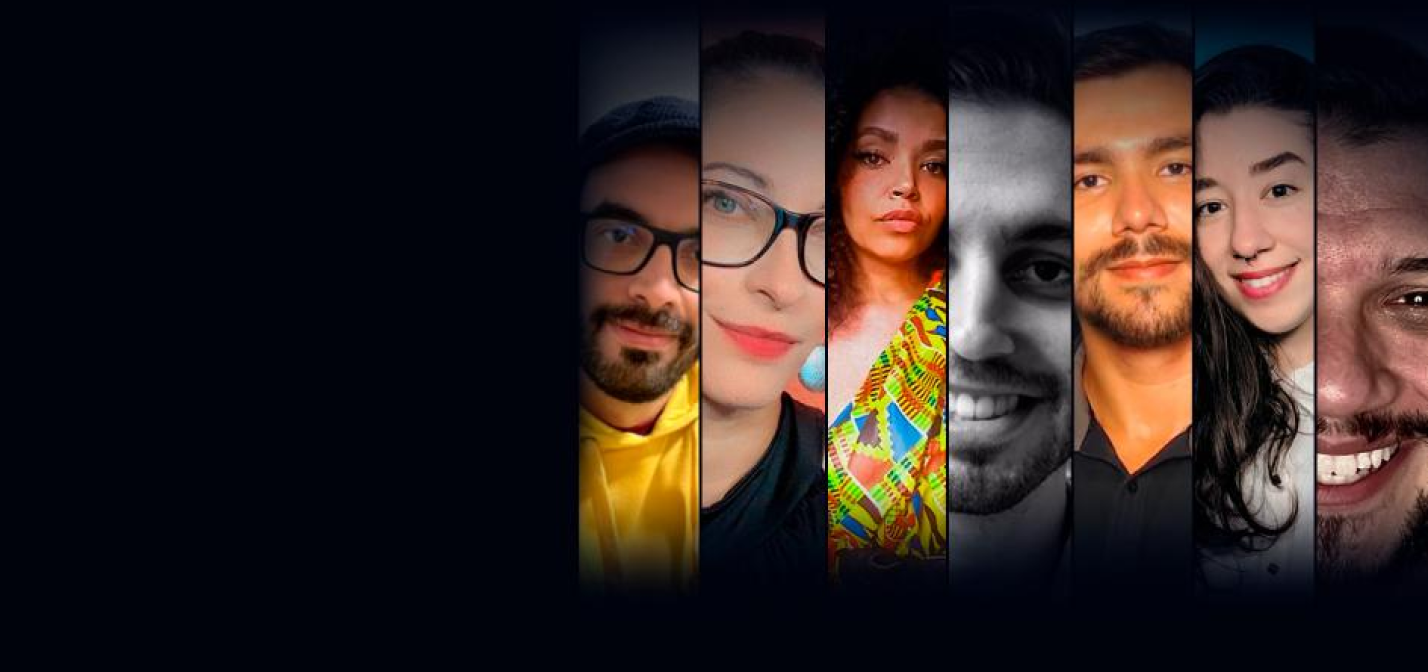
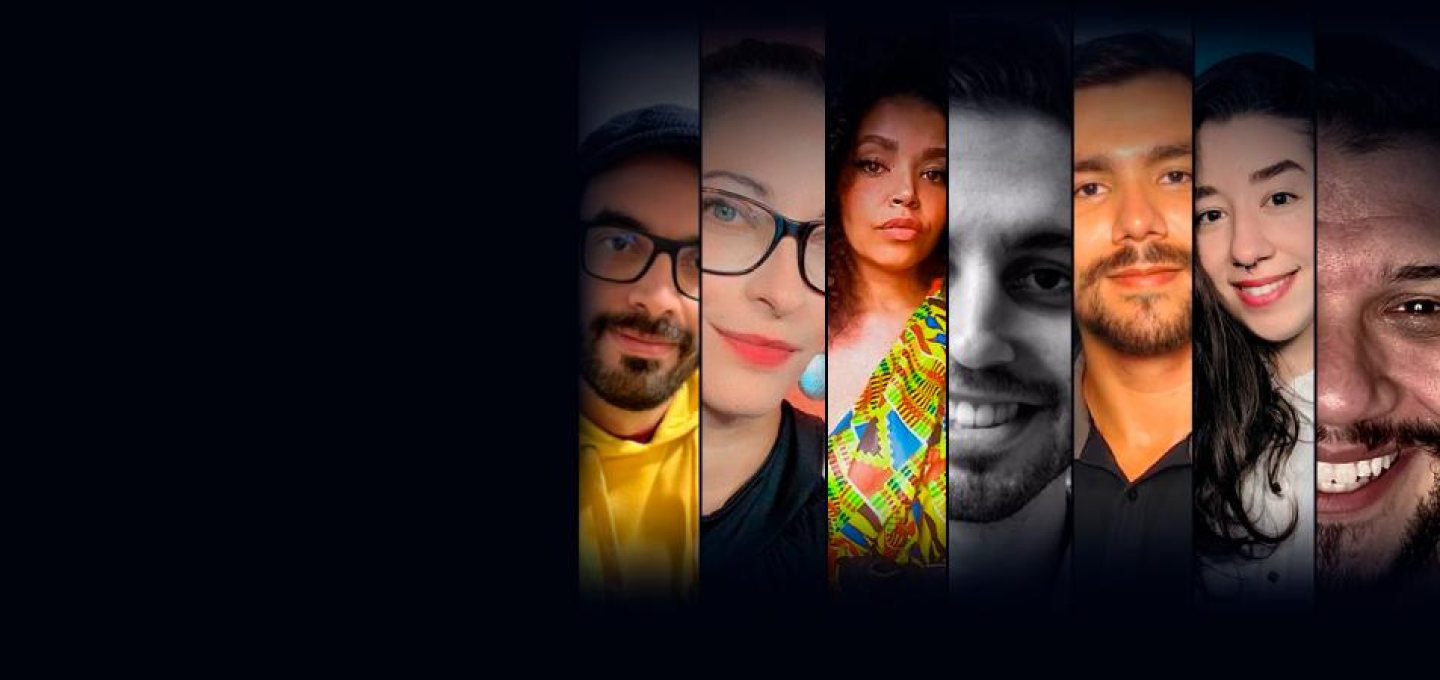
adição de novos arquivos

Changed region(s): [[0.4006, 0.0625, 1.0, 0.8438], [0.8936, 0.0625, 0.9244, 0.0938]]

diff --git a/index.html b/index.html
@@ -2,22 +2,100 @@
 <html>
 
 <head>
-    <title>Julia plus</title>
-    <meta charset="UF-8">
-    <meta name=" viewport" content= "widh=device-width, initial-scale=1">
+    <title>Julia Plus</title>
+    <meta charset="UTF-8">
+    <meta name="viewport" content="width=device-width, initial-scale=1">
     <link rel="stylesheet" href="styles.css">
+    <link rel="preconnect" href="https://fonts.googleapis.com">
+    <link rel="preconnect" href="https://fonts.gstatic.com" crossorigin>
+    <link href="https://fonts.googleapis.com/css2?family=Inter:wght@400;700&display=swap" rel="stylesheet">
 </head>
 
 
-
 <body>
-    <section class="conteiner principal">
-        <h1>Com o Combo+, você pode aproveitar a Alura+ e o Alura Língua por um preço único.</h1>
-        <img src="img/Group 28.png" alt="O combo+ é a junção do alura+ e o alura lingua">
-    </section>  
-</body>
+    <section class="principal container">
+        <div class="container__caixa">
+            <h1 class="container__titulo">Com o Combo+, você pode aproveitar a Alura+ e o Alura Língua por um preço
+                único.</h1>
+            <img src="img/Combo.png" alt="O combo+ é a junção do alura+ e o alura língua" class="container__imagem">
+            <a href="www.alura.com.br" class="container__botao">Assine por 12x de R$ 120,00*</a>
+            <a href="www.alura.com.br" class="container__botao botao_secundario">Assinar somente o Alura+</a>
+            <p class="container__aviso">*O preço pode variar caso a assinatura seja feita em outros planos.</p>
+        </div>
+    </section>
 
+    <section class="container secundario">
+        <img src="Img/Plataformas.png" alt="Um monitor e um celular com o alura plus aberto" class="secundario__imagem">
+        <div class="container__descricao">
+            <h2 class="descricao__titulo">Assista do seu jeito</h2>
+            <p class="descricao__texto">Aproveite a tela grande da TV ou assista no tablet, laptop, celular e outros aparelhos. Nossa seleção de cursos não para de crescer.</p>
+        </div>      
+    
+    </section>
 
+    <section class="container secundario">
+        <div class="container__descricao">
+            <p class="descricao__texto">Só o Combo+ oferece Alura+ e Alura Língua juntos para você ter acesso a cursos de diversas áreas da tecnologia e aprender inglês ou espanhol, onde e como quiser.</p>
+            <a href="www.alura.com.br"class="container__botao secundario__botao">Assinar o combo+</a>
+       </div>
+       <img src="Img/Telas.png" alt="tela da alura plus e do alura lingua" class="secundario__imagem">
 
+    </section>
+
+    <section class="container secundario">
+        <img src="Img/Notebook.png" alt="Um notebook com o alura aberto" class="secundaria__imagem">
+        <div class="container__descricao">
+            <h2 class="descricao__titulo">Baixe seus cursos</h2>
+            <p class="descricao__texto">Baixe e assista quando e onde quiser. Assim, seus favoritos estão sempre com você, até mesmo sem internet.</p>
+        </div>
+    </section>
+
+    <section class="dispositivos">
+        <h2 class="dispositivos__titulo">Disponível nos seus dispositivos favoritos</h2>
+        <ul class="dispositivos__listas">
+            <li>
+                <img src="Img/tv.png" alt="icone de televisão">
+                <h3 class="lista__item">TV</h3>
+            </li>
+            <li>
+                <img src="Img/computador.png" alt="icone de computador">
+                <h3 class="lista__item">Computadores</h3>
+            </li>
+            <li>
+                <img src="Img/celular.png">
+                <h3 class="lista__item">celular</h3>
+            </li>
+        </ul>
+
+    </section>
+
+    <footer class="rodape">
+        <img src="img/Logo.png" alt="Alura+" class="rodape__logo">
+        <ul class="rodape__lista">
+            <li class="lista__link">
+                <a href="#">Idioma</a>
+            </li>
+            <li class="lista__link">
+                <a href="#">Dispositivos compatíveis</a>
+            </li>
+            <li class="lista__link">
+                <a href="#">Contrato de assinatura</a>
+            </li>
+            <li class="lista__link">
+                <a href="#">Politica de privacidade</a>
+            </li>
+            <li class="lista__link">
+                <a href="#">Proteção de dados no Brasil</a>
+            </li>
+            <li class="lista__link">
+                <a href="#">Anuncios personalizados</a>
+            </li>
+            <li class="lista__link">
+                <a href="#">Ajuda</a>
+            </li>
+        </ul>
+        <p class="rodape__texto">® 2021 Alura, Alura+ e Alura Língua. Todos os direitos reservados. Serviço de assinatura paga. Conteúdo sujeito a disponibilidade.</p>
+        <p class="rodape__texto">Alura+ é um serviço pago, baseado em assinatura e sujeito a termos e condições. O serviço Alura+ é comercializado por Aovs Sistemas de Informática S.A., Rua Vergueiro, 3185 - Liberdade, São Paulo - SP, 04101-300, Brasil e CNPJ 05.555.382/0001-33</p>
+    </footer>
 
 </html>

diff --git a/styles.css b/styles.css
@@ -3,24 +3,147 @@
     --cinza-secundario: #C0C0C0;
     --botao-azul: #167BF7;
     --cor-de-fundo: #00030C;
+    --font-principal: 'Inter'
 }
 
-body { 
+body {
     background-color: var(--cor-de-fundo);
     color: var(--branco-principal);
+    font-family: var(--fonte-principal);
+    font-size: 16px;
+    font-weight: 400;
 }
 
-*{
+* {
     margin: 0;
     padding: 0;
-
 }
 
-.princiapl {
-    background-image: url("Img/Background.png");
+.principal {
+    background-image: url("img/Background.png");
     background-repeat: no-repeat;
     background-size: contain;
+    align-items: center;
+    text-align: center;
 }
+
 .container {
     height: 100vh;
+    display: grid;
+    grid-template-columns: 50% 50%;
 }
+
+.container__botao {
+    background-color: var(--botao-azul);
+    border-radius: 5px;
+    padding: 1em;
+    color: var(--branco-principal);
+    display: block;
+    text-decoration: none;
+    margin-bottom: 1em;
+}
+
+.botao_secundario {
+    background-color: transparent;
+    border: 2px solid var(--branco-principal)
+}
+
+.container__aviso {
+    font-size: 12px;
+    color: var(--cinza-secundario);
+}
+
+.container__titulo {
+    font-size: 28px;
+    font-weight: 700;
+}
+
+.container__imagem {
+    margin: 1em 0 2em 0;
+}
+
+.container__caixa {
+    margin: 0 6em;
+}
+
+.secundario__imagem{
+    width: 80%;
+}
+
+.secundario {
+    align-items: center;
+    margin: 0 10em;
+}
+
+.descricao__titulo {
+    font-weight: 700;
+    font-size: 48px;
+    color: var(--branco-principal);
+    margin-bottom: 0.1em;
+}
+
+.descricao__texto {
+    color: var(--cinza-secundario)
+}
+.secundario__botao{
+    display: inline-block;
+    margin: 1em;
+}
+
+.container__descricao{
+    padding: 2em;
+}
+
+.dispositivos__listas{
+    display: flex;
+    justify-content: center;
+    list-style-type: none;
+    margin: 5em 0;
+
+}
+
+.dispositivos{
+    text-align: center;
+}
+
+.dispositivos__titulo{
+    font-size: 48px;
+    color: var(--branco-principal);
+
+}
+
+.lista__item{
+    font-size: 32px;
+}
+
+.rodape {
+    text-align: center;
+    margin: 5em 3em;
+}
+
+.rodape__lista {
+    display: flex;
+    justify-content: center;
+    list-style-type: none;
+    margin-top: 1em;
+}
+
+.lista__link a{
+    text-decoration: none;
+    color: var(--branco-principal);
+    margin-left: 1em;
+}
+
+.rodape__texto {
+    margin: 1em 0;
+    color: var(--cinza-secundario);
+    font-size: 14px;
+}
+.lista__link a:hover {
+    color: var(--botao-azul);
+}
+
+.lista__link a:active {
+    color: brown;
+}
+
